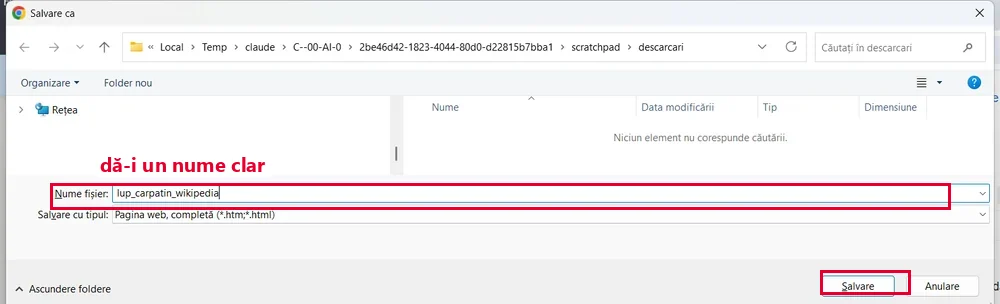
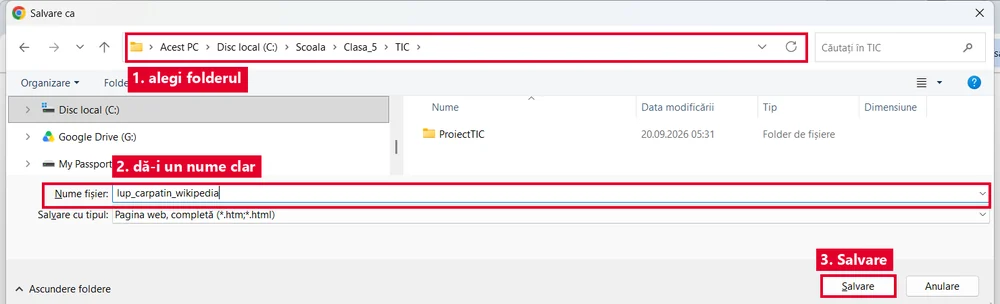
documentare-v: caseta Salvare ca refacuta fara urma folderului de lucru
Captura veche arata in bara de adrese calea temporara a sesiunii automate
(.../claude/.../scratchpad/descarcari). Noua captura e facuta cu un profil de
Chrome curat, cu caseta navigata in C:\Scoala\Clasa_5\TIC, si are cei trei pasi
numerotati: 1 alegi folderul, 2 dai un nume clar, 3 Salvare. Aceleasi dimensiuni
(1000x304), alt si legenda actualizate, rand nou in img/SURSE.json.

diff --git a/jocuri/documentare-v/index.html b/jocuri/documentare-v/index.html
@@ -110,8 +110,8 @@ qs:[
 <p>Lângă fiecare informație salvată notezi <mark>sursa</mark>: adresa paginii și data. Altfel nu mai știi de unde ai luat-o.</p>
 <figure class="captura"><a href="../documentare-v/img/salvez-imaginea.webp" target="_blank"><img src="../documentare-v/img/salvez-imaginea.webp" alt="Meniul care apare la clic dreapta pe o fotografie dintr-o pagină web, cu comanda Salvează imaginea ca încadrată" width="620" height="568" loading="lazy"></a>
 <figcaption>Clic dreapta pe imagine → <b>Salvează imaginea ca…</b> (în engleză, <i>Save image as…</i>).</figcaption></figure>
-<figure class="captura"><a href="../documentare-v/img/caseta-salvare.webp" target="_blank"><img src="../documentare-v/img/caseta-salvare.webp" alt="Caseta Salvare ca din Windows, cu câmpul Nume fișier completat cu lup_carpatin_wikipedia și tipul Pagina web completă" width="1000" height="304" loading="lazy"></a>
-<figcaption>După <kbd>Ctrl</kbd>+<kbd>S</kbd> se deschide caseta <b>Salvare ca</b>: alegi folderul și scrii un <b>nume clar</b>.</figcaption></figure>`,
+<figure class="captura"><a href="../documentare-v/img/caseta-salvare.webp" target="_blank"><img src="../documentare-v/img/caseta-salvare.webp" alt="Caseta Salvare ca din Windows, cu bara de adresă care arată folderul C: Scoala Clasa_5 TIC, câmpul Nume fișier completat cu lup_carpatin_wikipedia, tipul Pagina web completă și butonul Salvare, toate încadrate și numerotate" width="1000" height="304" loading="lazy"></a>
+<figcaption>După <kbd>Ctrl</kbd>+<kbd>S</kbd> se deschide caseta <b>Salvare ca</b>: <b>1</b> alegi folderul, <b>2</b> scrii un nume clar, <b>3</b> apeși Salvare.</figcaption></figure>`,
 qs:[
  {t:'choice',q:'Vrei să păstrezi o fotografie cu un lup de pe o pagină. Ce faci?',o:['Clic dreapta pe ea și aleg salvarea imaginii','Apăs Ctrl+D și pun pagina la Favorite','Apăs Ctrl+T și deschid o filă nouă','Închid pagina, poza rămâne în browser'],ok:0,why:'Comanda de salvare din meniul de clic dreapta pune imaginea într-un fișier pe calculator. Favoritele păstrează doar adresa, iar o filă nouă nu salvează nimic.'},
  {t:'match',q:'Leagă fiecare scurtătură de ce face în browser.',pairs:[['Ctrl+C','copiezi textul selectat'],['Ctrl+V','lipești textul în document'],['Ctrl+S','salvezi toată pagina'],['Ctrl+D','pui adresa paginii la Favorite']],why:'Copierea și lipirea mută textul în documentul tău. Ctrl+S face un fișier cu pagina. Ctrl+D doar ține minte adresa.'},
